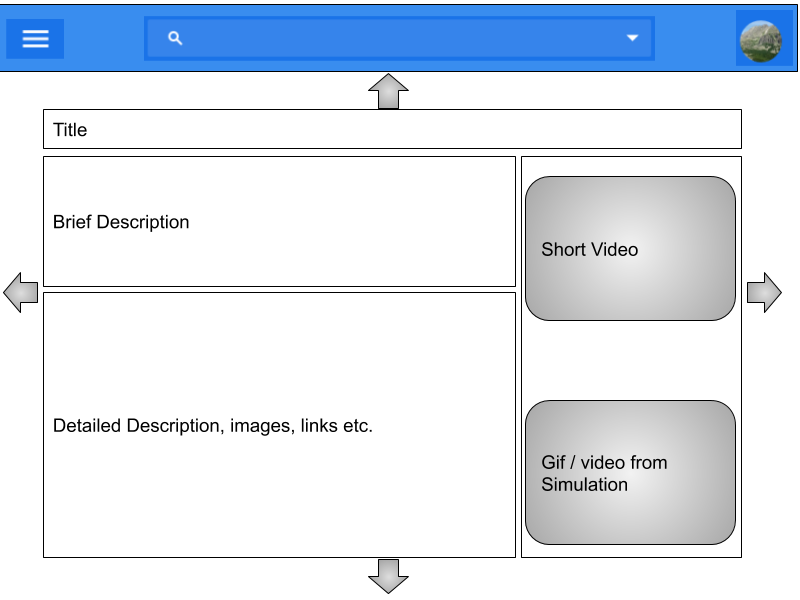
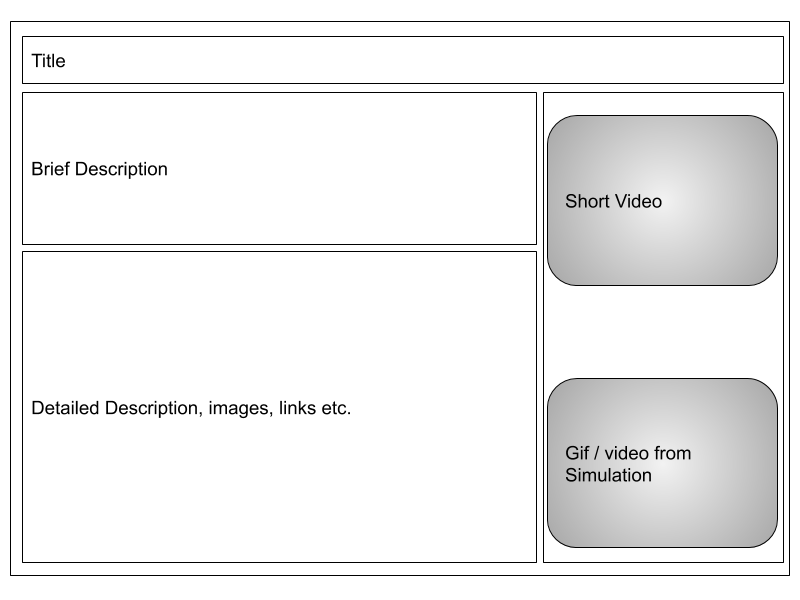
AB#8 added mouse click event

diff --git a/src/sapper_svelte/src/components/Level1Preview.svelte b/src/sapper_svelte/src/components/Level1Preview.svelte
@@ -112,41 +112,54 @@
         }
 
     */
+    let colors = ['#696969', '#808080', '#A9A9A9', '#C0C0C0', '#D3D3D3', '#DCDCDC'];
+
     // To the right
+        let right_data = [];
         let prev_x_c = data[0].rx_c;
         //let prev_width = data[0].width;
         for(let i = 0; i < 4; i++)
         {
             let new_h = data[0].height / ((i +1) * 1.5);
             let new_w = data[0].width / ((i + 1) * 2);
-            new_data.push(
+            right_data.push(
                 {
                     rx: prev_x_c + new_w / 2,
                     ry: data[0].ry_c - new_h / 2,
                     height: new_h,
                     width: new_w,
-                    src: data[0].src
+                    src: data[0].src,
+                    color: colors[i+1],
+                    focus: 0
                 }
             );
             prev_x_c = prev_x_c + new_w;
         }
         // To the left
+        let left_data = [];
         prev_x_c = data[0].rx_c;
         for(let i = 0; i < 4; i++)
         {
             let new_h = data[0].height / ((i +1) * 1.5);
             let new_w = data[0].width / ((i + 1) * 2);
 
-            new_data.push(
+            left_data.push(
                 {
                     rx: prev_x_c - new_w / 2 - new_w,
                     ry: data[0].ry_c - new_h / 2,
                     height: new_h,
                     width: new_w,
-                    src: data[0].src
+                    src: data[0].src,
+                    color: colors[i+1],
+                    focus: 0
                 }
             );
             prev_x_c = prev_x_c - new_w;
+        }
+        for(let i = 3; i >= 0; i--)
+        {
+            new_data.push(left_data[i]);
+            new_data.push(right_data[i]);
         }
         // root
         new_data.push(
@@ -155,9 +168,12 @@
                 ry: data[0].ry_c - data[0].height / 2,
                 height: data[0].height,
                 width: data[0].width,
-                src: data[0].src
+                src: data[0].src,
+                color: colors[0],
+                focus: 1
             }
         );
+
 
         return new_data;
     }

diff --git a/src/sapper_svelte/src/components/D3Image.svelte b/src/sapper_svelte/src/components/D3Image.svelte
@@ -17,7 +17,7 @@ rectangle.enter().append("rect")
           .attr("y", function(d) { return d.ry; })
           .attr("width", function(d) { return d.width; })
           .attr("height", function(d) { return d.height; })
-          .style("fill", "steelblue")
+          .style("fill", function(d) { return d.color; })
           ;
 
 rectangle.exit().remove();
@@ -34,6 +34,16 @@ rectangle.exit().remove();
           .attr('x', function(d) { return d.rx; })
           .attr('y', function(d) { return d.ry; })
           .attr('stroke', 'black')
+          .on("click", function(d) {
+                let focus = d.focus;
+                if( focus === 1)
+                {
+                  console.log("Focus " + focus);
+                }
+                else{
+                    console.log("No Focus " + focus);
+                }
+          })
           ;
 
         image.exit().remove();

diff --git a/src/sapper_svelte/src/components/PlotLevels.svelte b/src/sapper_svelte/src/components/PlotLevels.svelte
@@ -47,5 +47,5 @@
 <PlotLevel1 data = {level_1_data} />
 <PlotLevel2 data = {level_2_data} />
 
-<svg bind:this={svg} width="1000" height="1000">
+<svg bind:this={svg} width="1000" height="500">
 </svg>
